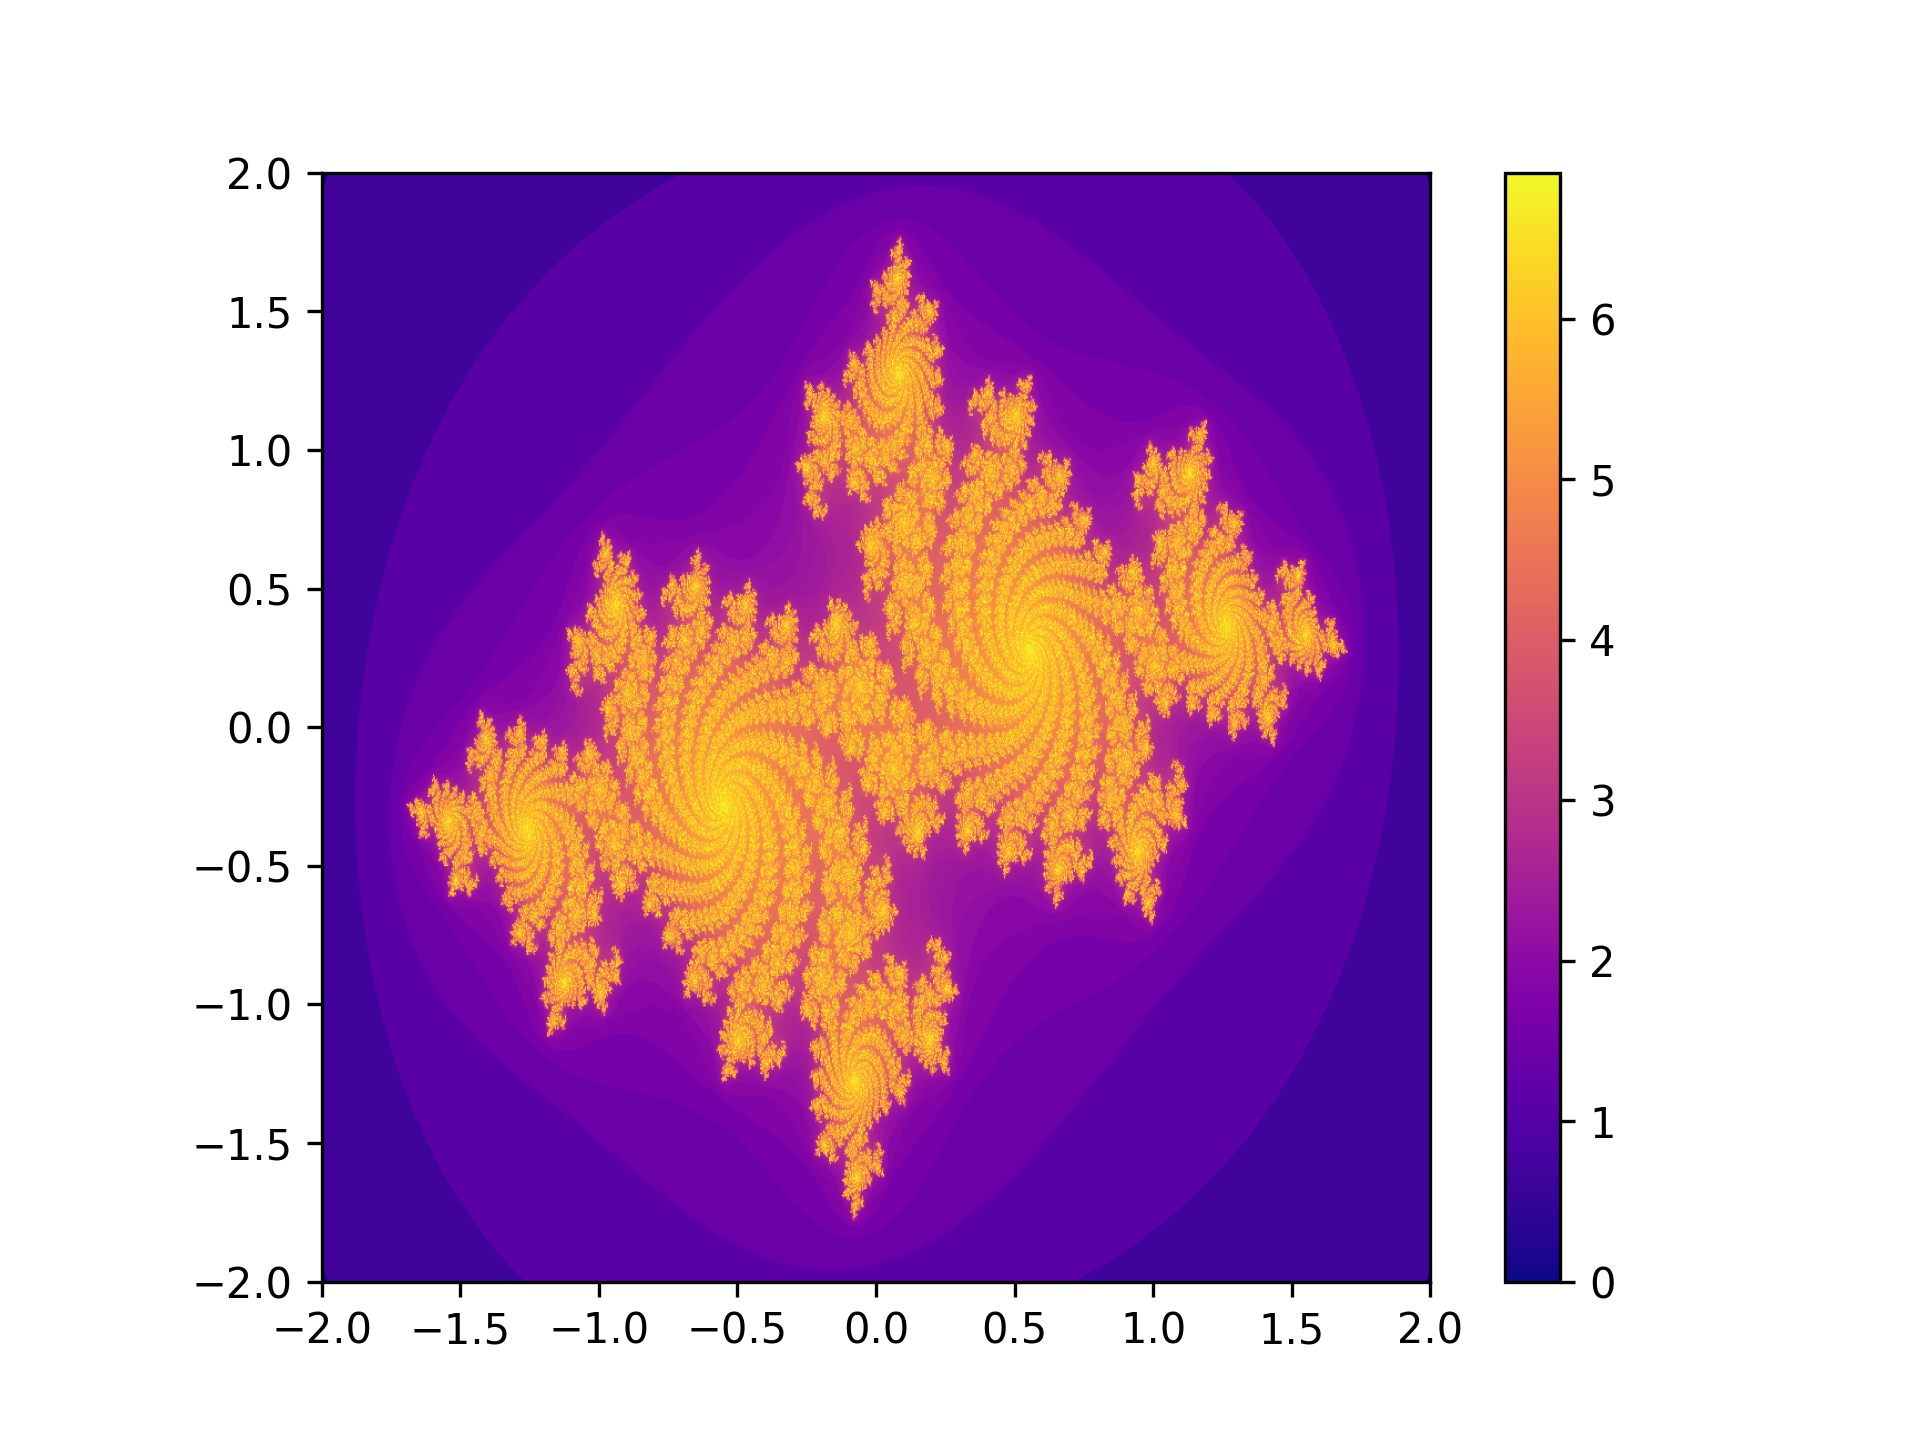
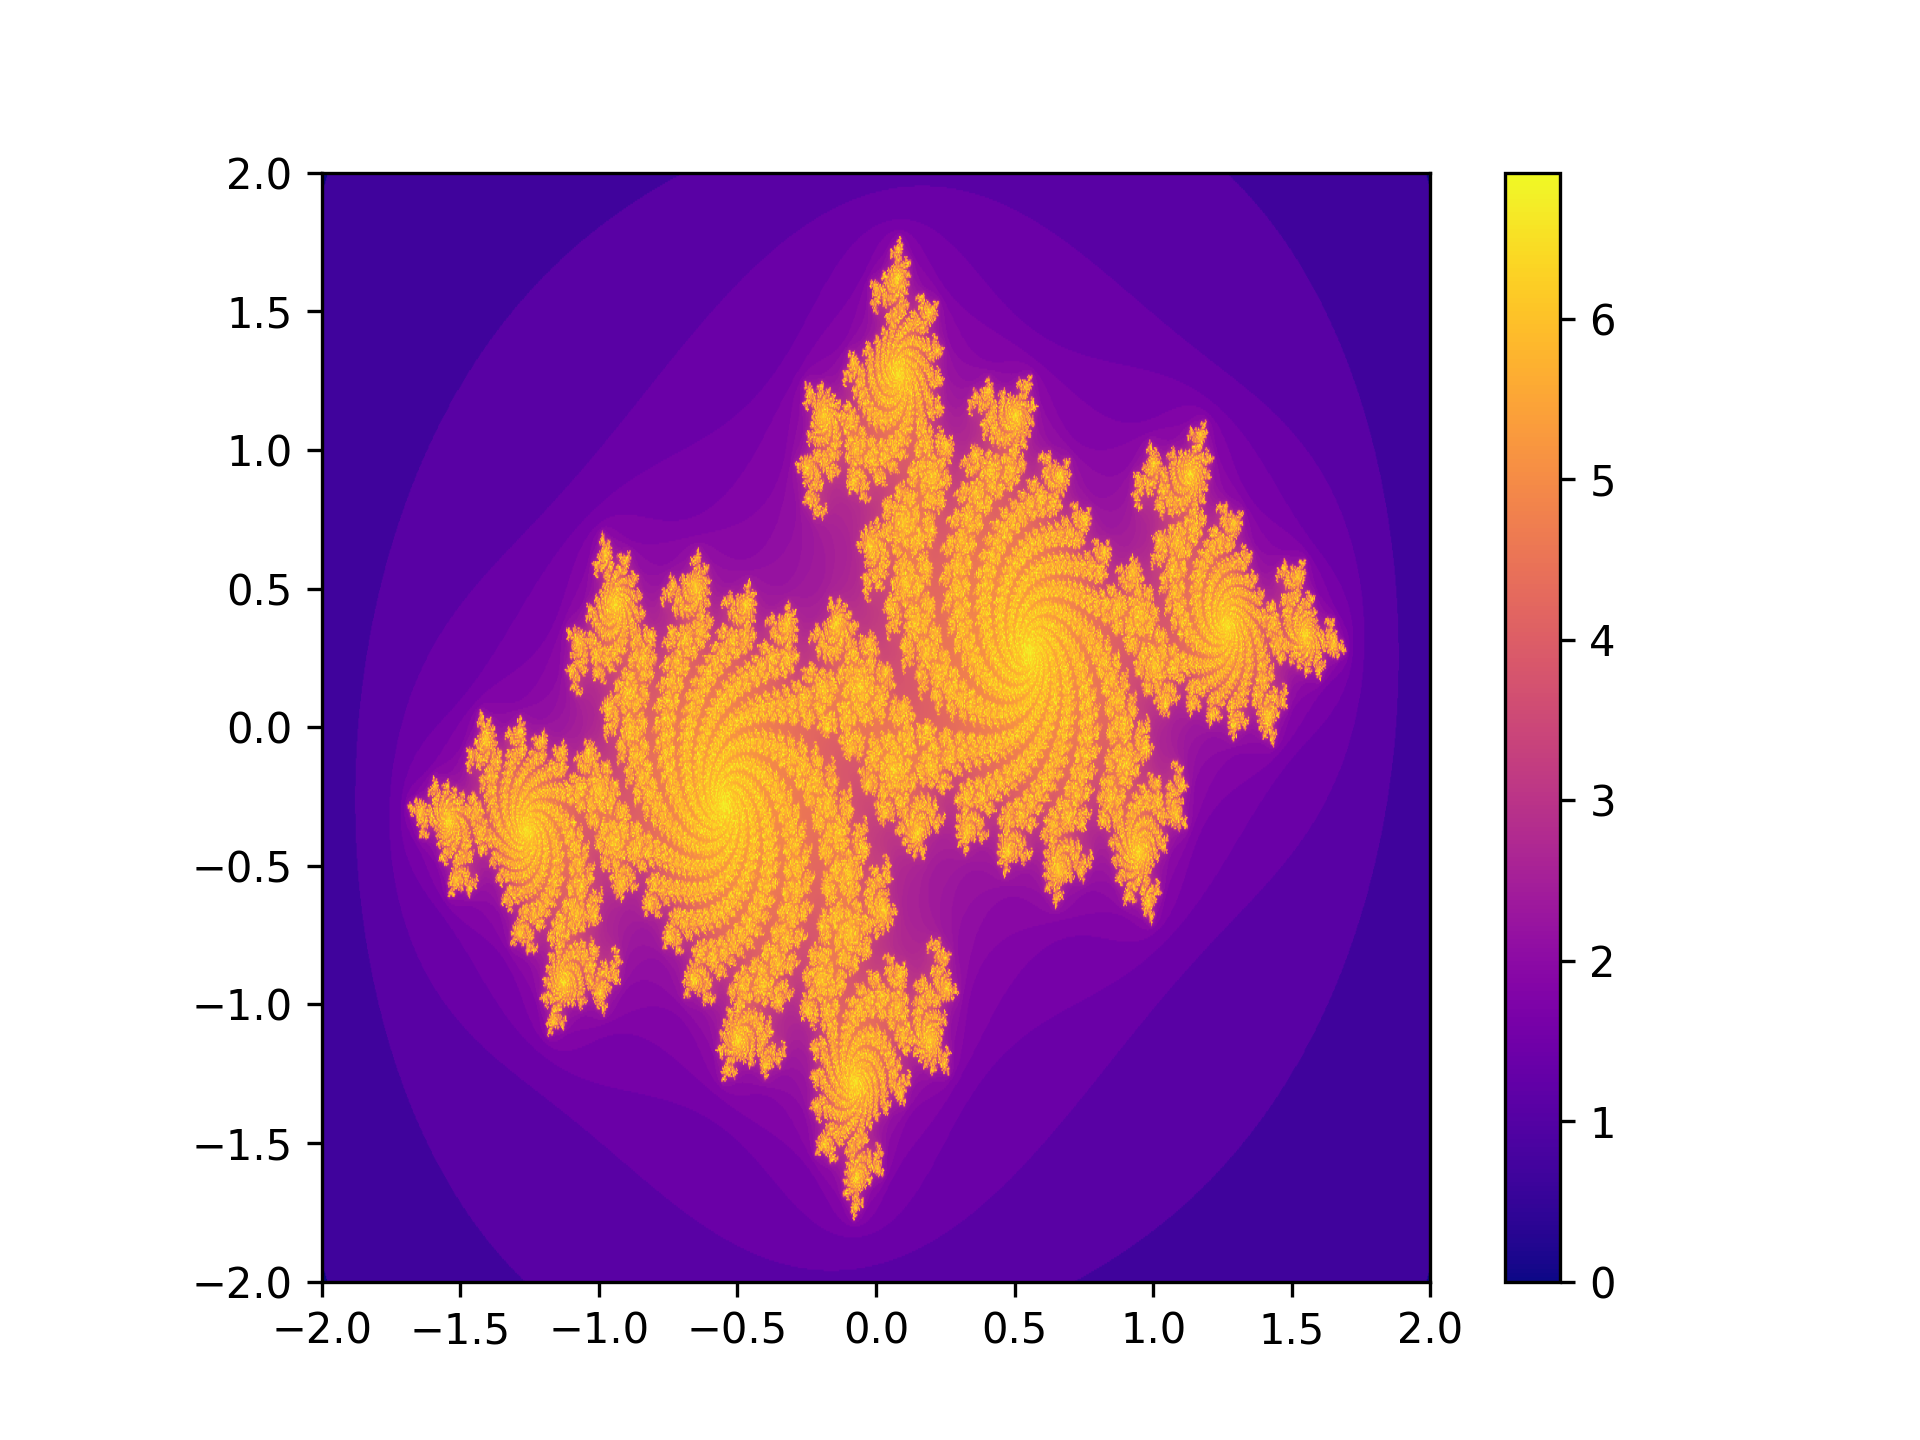
update :tada:

Changed region(s): [[0.2188, 0.1875, 0.7188, 0.8438]]

diff --git a/fractal_julia_parallel.py b/fractal_julia_parallel.py
@@ -14,8 +14,8 @@ matplotlib.use('Agg')
 sys.setrecursionlimit(2000)
 
 # Parámetros de la imagen
-WIDTH = 1000
-HEIGHT = 800
+WIDTH = 1280
+HEIGHT = 720
 MAX_ITER = 1000
 C = complex(-0.7, 0.27015)
 
@@ -95,14 +95,8 @@ if __name__ == "__main__":
 
     # Generar la imagen con colores ajustados
     plt.imshow(image, cmap="plasma", extent=[-2, 2, -2, 2])
-    plt.colorbar(label='Número de iteraciones')
-    plt.title('Fractal de Julia con mapa de colores "plasma"')
-    plt.xlabel('Parte Real')
-    plt.ylabel('Parte Imaginaria')
+    plt.colorbar()
 
-    # Añadir una anotación sobre el mapa de colores
-    plt.annotate('Mapa de colores usado: plasma', xy=(-1.8, 1.8), color='white', fontsize=10,
-                 bbox=dict(facecolor='black', alpha=0.5))
 
     plt.savefig("julia_fractal_parallel_recursive_safe.png", dpi=300)
     print("Imagen guardada como 'julia_fractal_parallel_recursive_safe.png'")

diff --git a/fractal_julia_secuencial.py b/fractal_julia_secuencial.py
@@ -11,8 +11,8 @@ matplotlib.use('Agg')
 sys.setrecursionlimit(2000)
 
 # Parámetros de la imagen
-WIDTH = 1000
-HEIGHT = 800
+WIDTH = 1280
+HEIGHT = 720
 MAX_ITER = 1000
 C = complex(-0.7, 0.27015)  # Número complejo fijo para el conjunto de Julia
 
